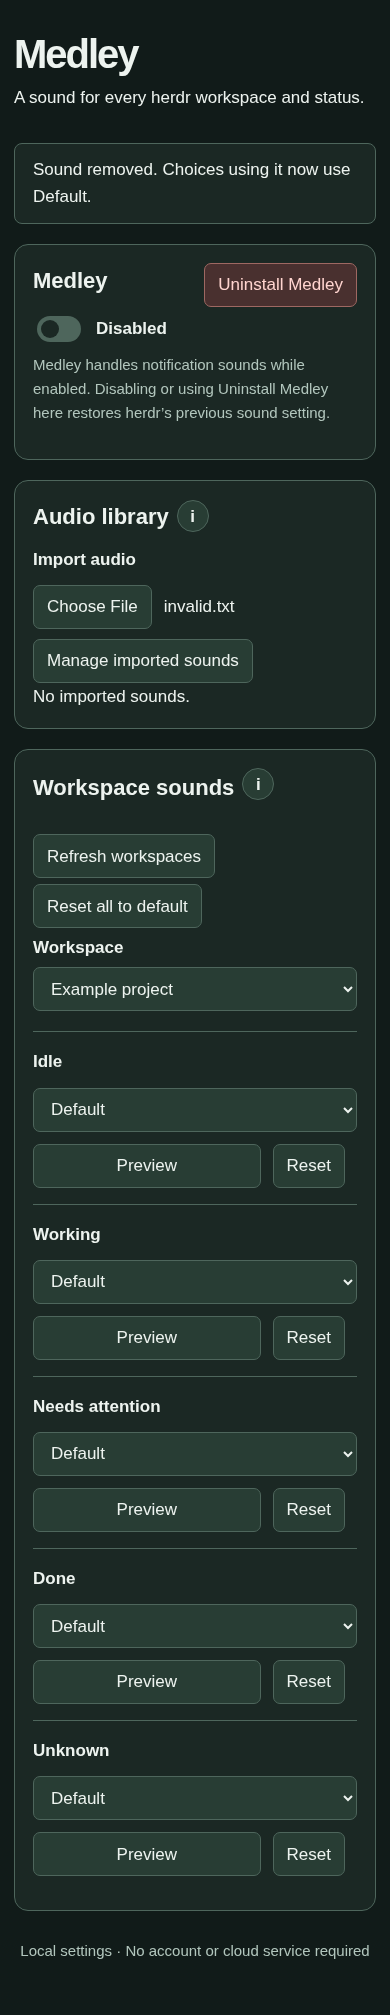
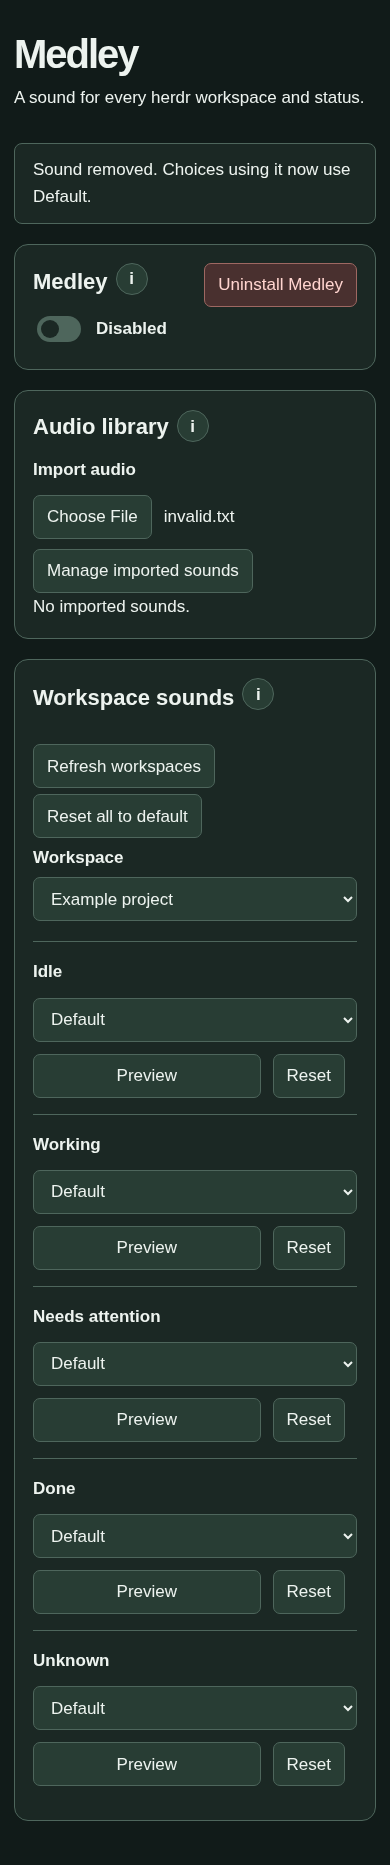
Move Medley explanation and footer into its info popup

diff --git a/assets/index.html b/assets/index.html
@@ -2,8 +2,8 @@
 <html lang="en"><head><meta charset="utf-8"><meta name="viewport" content="width=device-width, initial-scale=1"><title>Medley · Workspace sounds</title><link rel="stylesheet" href="/style.css"><script defer src="/app.js"></script></head>
 <body><main><header><h1>Medley</h1><p>A sound for every herdr workspace and status.</p></header>
 <p id="feedback" role="status" aria-live="polite" hidden></p><p id="error" role="alert" hidden></p><audio id="player" controls hidden aria-label="Sound preview"></audio>
-<section aria-labelledby="playback-heading"><div class="section-heading"><h2 id="playback-heading">Medley</h2><button id="uninstall">Uninstall Medley</button></div><label class="toggle"><input type="checkbox" role="switch" aria-label="Medley enabled" id="enabled"> <span id="enabled-label">Disabled</span></label><p class="help">Medley handles notification sounds while enabled. Disabling or using Uninstall Medley here restores herdr’s previous sound setting.</p></section>
+<section aria-labelledby="playback-heading"><div class="section-heading"><div class="library-heading"><h2 id="playback-heading">Medley</h2><button class="info-button" type="button" popovertarget="medley-help" aria-label="About Medley">i</button></div><button id="uninstall">Uninstall Medley</button></div><label class="toggle"><input type="checkbox" role="switch" aria-label="Medley enabled" id="enabled"> <span id="enabled-label">Disabled</span></label><div id="medley-help" class="help-popover" popover><p>Medley handles notification sounds while enabled. Disabling or using Uninstall Medley here restores herdr’s previous sound setting. Audio plays on the herdr server’s machine, including for the workspace you are viewing.</p><p>Local settings · No account or cloud service required</p></div></section>
 <section aria-labelledby="library-heading"><div class="library-heading"><h2 id="library-heading">Audio library</h2><button class="info-button" type="button" popovertarget="library-help" aria-label="About audio imports">i</button></div><div id="library-help" class="help-popover" popover>Choose an MP3 or WAV to import it immediately, then select it in any workspace. WAV files convert to MP3. Maximum 20 MB.</div><label for="upload">Import audio</label><input type="file" accept=".mp3,.wav,audio/mpeg,audio/wav" id="upload"><button id="manage-library" aria-expanded="false" aria-controls="library-files">Manage imported sounds</button><div id="library-files" hidden></div></section>
 <section aria-labelledby="rules-heading"><div class="section-heading"><div class="library-heading"><h2 id="rules-heading">Workspace sounds</h2><button class="info-button" type="button" popovertarget="workspace-help" aria-label="About workspace sounds">i</button></div><div><button id="refresh">Refresh workspaces</button> <button id="reset">Reset all to default</button> <button id="undo" hidden>Undo reset</button></div></div><div id="workspace-help" class="help-popover" popover>Choose a workspace and a status. Changes save immediately. Default follows herdr’s configured completion or attention sound; Working and Unknown are quiet by default.</div>
 <div class="filters"><div><label for="workspace">Workspace</label><select id="workspace"></select></div></div><div id="rules"></div></section>
-<footer>Local settings · No account or cloud service required</footer></main></body></html>
+</main></body></html>

diff --git a/docs/validation.md b/docs/validation.md
@@ -239,3 +239,11 @@ Workspace guidance moved unchanged behind a matching named i button beside its
 heading. Both help popovers share theme styling. Chromium browser checks passed,
 including opening and Escape dismissal of each popup, import, removal, playback,
 uninstall fixture, keyboard and mobile overflow checks. Synthetic captures refreshed.
+
+## Medley info popup — 2026-10-20
+
+First-box Medley heading now has a matching named info button. The requested
+sound-ownership explanation and local-settings line live inside its popover;
+the former footer is removed. Chromium passed opening/Escape dismissal of all
+three help popovers and existing functional, keyboard and mobile checks.
+Synthetic screenshots refreshed. No backend or saved settings changed.
